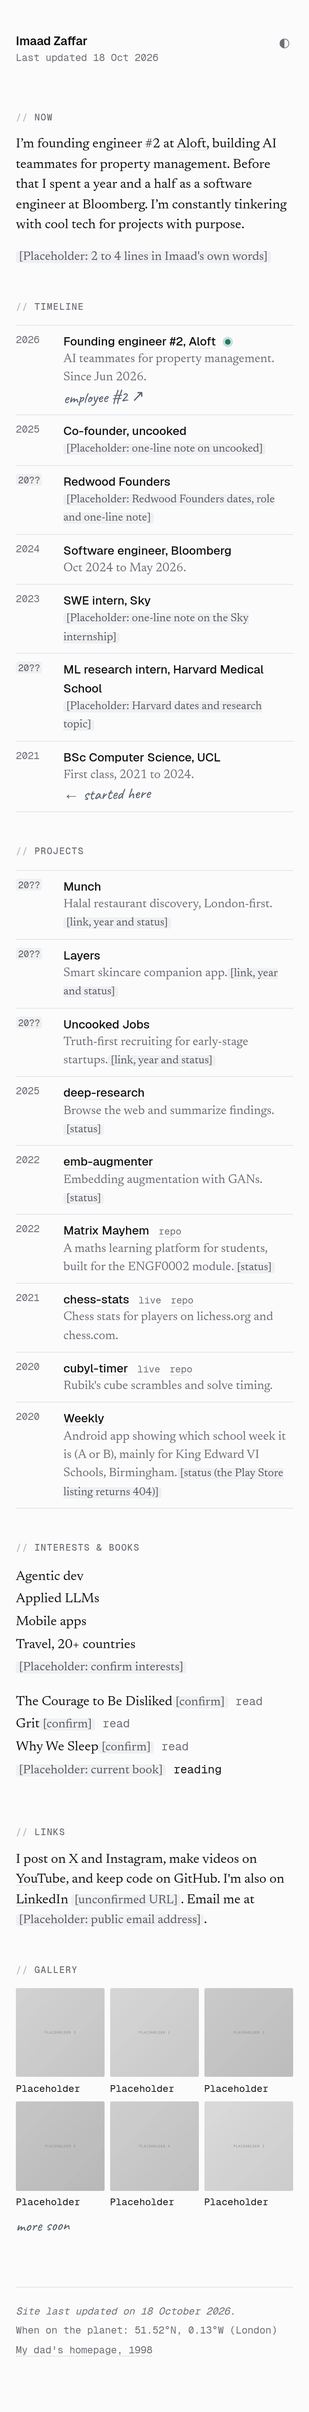
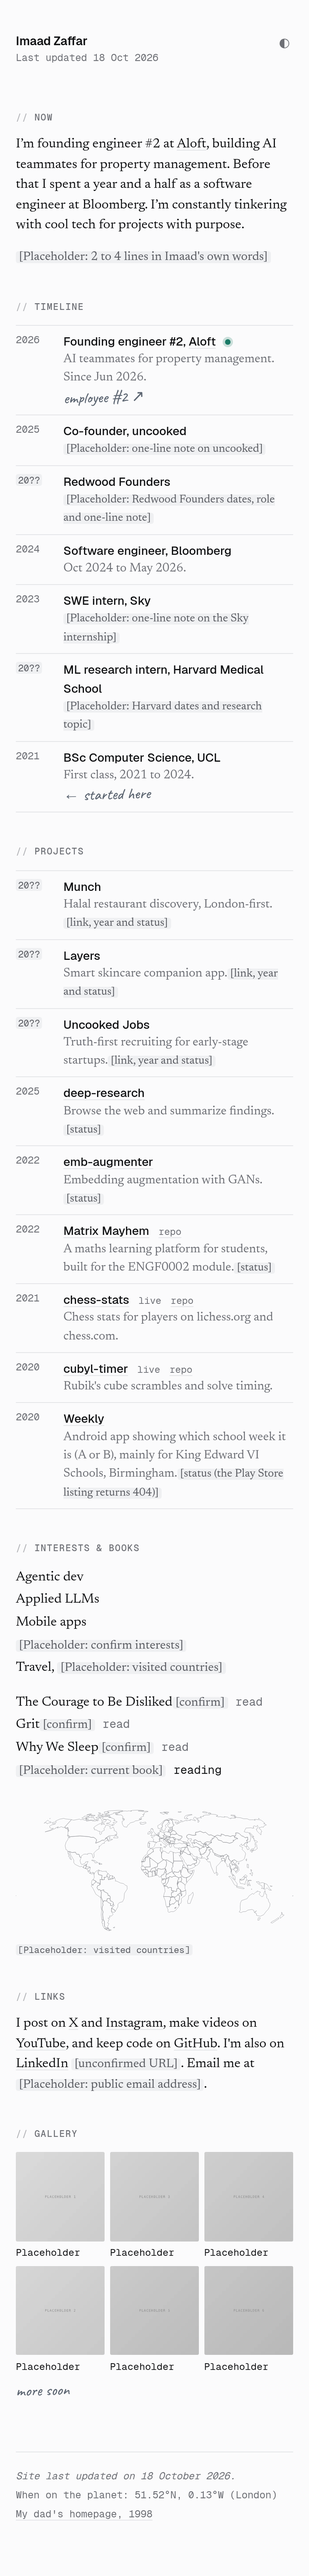
feat(site): add build-time world map of visited countries
travel.json holds ISO alpha-2 codes, validated against the full code list. The map renders to inline SVG at build time from Natural Earth 110m, simplified to about 30 KB, with no client JS. The list ships empty as a placeholder.

diff --git a/src/styles/global.css b/src/styles/global.css
@@ -88,6 +88,12 @@ mark.ph { background: var(--mark); color: var(--mark-ink); padding: 0 0.25em; bo
 .books em.reading { color: var(--ink); }
 
 #gallery { position: relative; }
+.map { margin: 0.75rem 0 0; }
+.map svg { display: block; width: 100%; height: auto; }
+.map .land { fill: none; stroke: var(--muted); stroke-opacity: 0.55; stroke-width: 0.5; stroke-linejoin: round; vector-effect: non-scaling-stroke; }
+.map .visited { fill: var(--ink); fill-opacity: 0.85; stroke: var(--bg); stroke-width: 0.5; vector-effect: non-scaling-stroke; }
+.map .visited:hover { fill: var(--accent); fill-opacity: 1; }
+.sr-only { position: absolute; width: 1px; height: 1px; overflow: hidden; clip-path: inset(50%); white-space: nowrap; }
 .grid { display: grid; grid-template-columns: repeat(3, 1fr); gap: 0.6rem; }
 figure { margin: 0; }
 .grid img { display: block; width: 100%; height: auto; aspect-ratio: 1; object-fit: cover; border-radius: 2px; filter: saturate(0); }

diff --git a/src/content.config.ts b/src/content.config.ts
@@ -1,5 +1,6 @@
 import { defineCollection, z } from 'astro:content'
 import { file, glob } from 'astro/loaders'
+import countries from 'i18n-iso-countries'
 
 const todo = z.string().optional()
 
@@ -48,6 +49,17 @@ const projects = defineCollection({
   }),
 })
 
+const alpha2 = Object.keys(countries.getAlpha2Codes()) as [string, ...string[]]
+
+const travel = defineCollection({
+  loader: file('./src/content/travel.json'),
+  schema: z.object({
+    id: z.enum(alpha2),
+    year: z.number().int().optional(),
+    note: z.string().optional(),
+  }),
+})
+
 export const linkIds = ['x', 'instagram', 'youtube', 'github', 'linkedin', 'email'] as const
 
 const links = defineCollection({
@@ -72,4 +84,4 @@ const gallery = defineCollection({
     }),
 })
 
-export const collections = { now, timeline, projects, interests, links, gallery }
+export const collections = { now, timeline, projects, interests, travel, links, gallery }

diff --git a/README.md b/README.md
@@ -23,11 +23,14 @@ All copy lives in `src/content/`. The schemas in `src/content.config.ts` validat
 | `now.md` | The Now paragraph. `updated` drives "Last updated" and the footer date. |
 | `timeline.json` | One row per role: `year`, `role`, `org`, optional `url`, `note`, `current` (adds the dot), and `aside` (the handwritten margin note). |
 | `projects.json` | One row per project: `name`, `blurb`, optional `url` and `repo`, `year`, and `status` (`live`, `archived`, `wip` or `null`). |
-| `interests.json` | Entries with `kind` set to `interest`, `book` (`status`: `reading` or `read`) or ``book` only. |
+| `interests.json` | Entries with `kind` set to `interest` or `book` (`status`: `reading` or `read`). |
+| `travel.json` | Visited countries: `[{ "id": "GB" }]`, with optional `year` and `note`. `id` must be an ISO 3166-1 alpha-2 code. The world map and the Travel count come from this file. |
 | `links.json` | The links used in the Links sentence. `id` is one of `x`, `instagram`, `youtube`, `github`, `linkedin`, `email`. For email, `url` is the bare address. |
 | `gallery/*.json` | One file per photo: `image` (a path next to the JSON file), `caption`, `place`, `date`. |
 
 Placeholders follow one rule. Set a value to `null` and give a `todo` to show a grey `[Placeholder: …]` mark. Keep a value and add a `todo` to show it with a small `[todo]` mark. Delete the `todo` once the content is real. `npm run todos` lists what is left.
+
+`TRAVEL_EXAMPLE=1 npm run build` renders the map with a labelled example list for screenshots. Never deploy with it set.
 
 To add a photo, drop the image into `src/content/gallery/` and add a JSON file next to it. Astro resizes it to WebP at build time.
 
